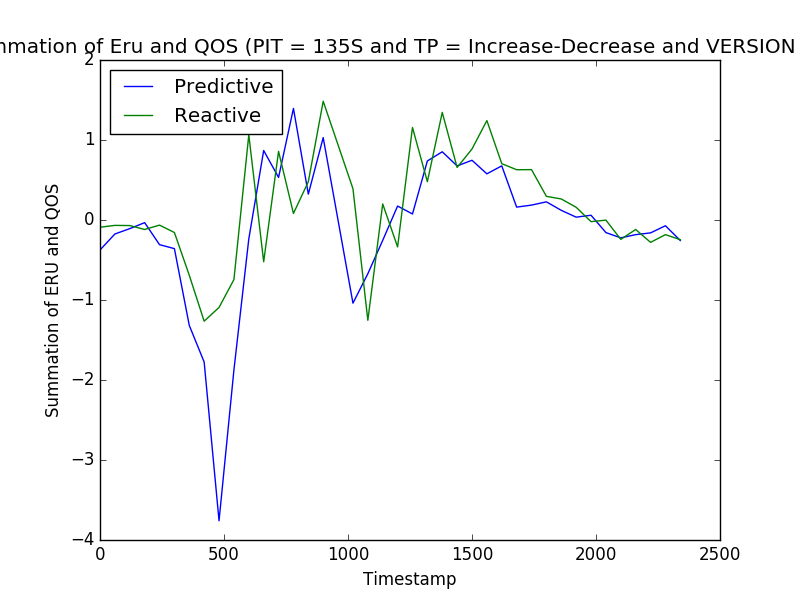
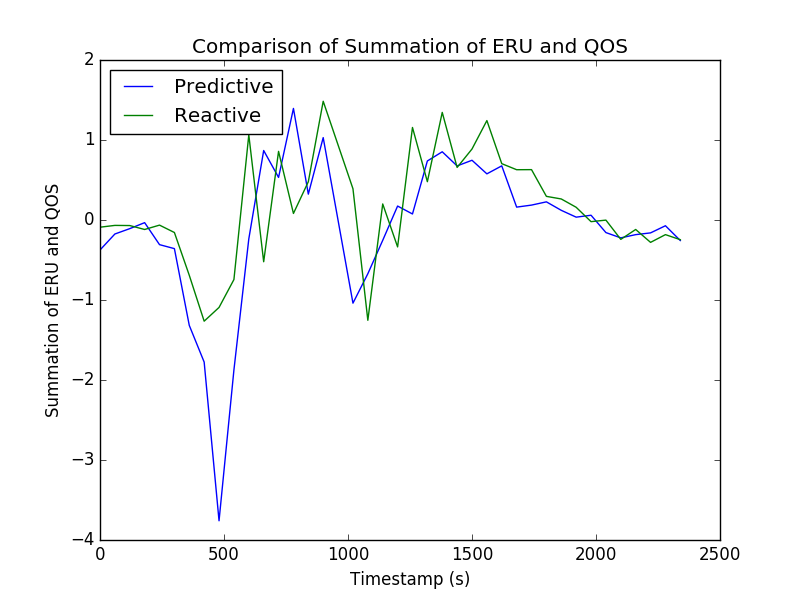
Run more trials and add scripts
Since I'm making a lot of mods at once, this is a kind of disorganized
commit to be honest. It contains the following components.

* Allow running my `evaluate.py` script to compare just eru or just qos
  in addition to their summation.
* Update the way I'm querying influxdb to reflect the addition of
  versioning.
* Write a python script to generate all of my graphs and jsons of stats.
* Add two new traffic-patterns and their results: jagged-edge and
  flash-crowd.

Changed region(s): [[0.0, 0.06, 1.0, 0.09], [0.4375, 0.93, 0.5938, 0.99]]

diff --git a/evaluation/process/evaluate.py b/evaluation/process/evaluate.py
@@ -49,11 +49,13 @@ class Evaluate(object):
     # If no version is specified, assume that it is v1.
     DEFAULT_VERSION = "v1"
 
-    def __init__(self, pit, tp, version, output):
+    def __init__(self, pit, tp, version, output, only_eru, only_qos):
         self._pit = pit
         self._tp = tp
         self._version = version
         self._output = output
+        self._only_eru = only_eru
+        self._only_qos = only_qos
         self._client = None
 
     def _get_client(self):
@@ -74,10 +76,17 @@ class Evaluate(object):
 
         return self._client
 
-    def _get_base_query(self):
+    def _get_base_query(self, version):
         """
         Return the base influx db query which will be used by any instance of
         this class.
+
+        @TODO Handle versioning of queries better.
+
+        Args:
+            version (str): At this point, different versions of trials require
+            different queries which isn't ideal, but its what's happening for
+            now.
 
         Returns:
             str: The base influxdb query, which still has fields that need to be
@@ -87,9 +96,14 @@ class Evaluate(object):
         # like a fairly safe assumption, but is an assumption all the same.
         # @TODO Abstract the specific variable names like `sm`, `tp` as class
         # variables so they aren't just random strings.
-        query = ("SELECT MEAN({{ value }}) from METRICS where time > now() - 10d and "
-                 "sm = '{{ sm }}' and pit = '{{ pt }}' and tp = '{{ tp }}' "
-                 "and ver = '{{ ver }}' group by time(1m)")
+        if version == self.DEFAULT_VERSION:
+            query = ("SELECT MEAN({{ value }}) from METRICS where time > now() - 40d and "
+                     "sm = '{{ sm }}' and pit = '{{ pt }}' and tp = '{{ tp }}' "
+                     "and ver !~ /v*/ group by time(1m)")
+        else:
+            query = ("SELECT MEAN({{ value }}) from METRICS where time > now() - 10d and "
+                     "sm = '{{ sm }}' and pit = '{{ pt }}' and tp = '{{ tp }}' "
+                     "and ver = '{{ ver }}' group by time(1m)")
 
         return query
 
@@ -110,11 +124,11 @@ class Evaluate(object):
         version = "" if self._version == self.DEFAULT_VERSION else self._version
 
         full_query = Template(
-            self._get_base_query()).render(value=value,
-                                           sm=scaling_method,
-                                           pt=self._pit,
-                                           tp=self._tp,
-                                           ver=version)
+            self._get_base_query(self._version)).render(value=value,
+                                                        sm=scaling_method,
+                                                        pt=self._pit,
+                                                        tp=self._tp,
+                                                        ver=version)
 
         res = client.query(full_query)
         return list(res.get_points())
@@ -197,7 +211,15 @@ class Evaluate(object):
                 n_eru = self._normalize(eru, eru_mean, eru_std_dev)
                 n_qos = self._normalize(qos, qos_mean, qos_std_dev)
 
-                sum_eru_qos = -n_eru + -n_qos
+                # A hacky way to allow me to compare to trials just on the basis
+                # of eru or qos as opposed to just their summation.
+                if self._only_eru:
+                    sum_eru_qos = -n_eru
+                elif self._only_qos:
+                    sum_eru_qos = -n_qos
+                else:
+                    sum_eru_qos = -n_eru + -n_qos
+
                 data[timestamp] = sum_eru_qos
 
             results[scaling_method] = data
@@ -218,21 +240,6 @@ class Evaluate(object):
 
         return self._version
 
-    def _get_graph_title(self):
-        """
-        Return the title for the graph.
-
-        Return:
-            str: The title of the graph.
-        """
-        pit = self._pit.title()
-        traffic_plan = self._tp.title()
-
-        title = "Summation of Eru and QOS (PIT = {0} and TP = {1} and VERSION = {2})".format(
-            pit, traffic_plan, self._get_version())
-
-        return title
-
     def _get_file_name(self, file_type):
         """
         Return the file name for the graph.
@@ -246,9 +253,47 @@ class Evaluate(object):
         """
         base_str = self.GRAPH if file_type == self.GRAPH else self.STATS
 
-        file_name = "{0}/{1}_{2}_{3}_{4}".format(self._output, base_str, self._pit,
-                                                 self._tp, self._get_version())
+        qualifier = ""
+        if self._only_eru:
+            qualifier = "_only-eru"
+        elif self._only_qos:
+            qualifier = "_only-qos"
+
+        file_name = "{0}/{1}_{2}_{3}_{4}{5}".format(self._output, base_str, self._pit,
+                                                    self._tp, self._get_version(),
+                                                    qualifier)
         return file_name
+
+    def _get_y_axis(self):
+        """
+        Return the y axis title for the graphs.
+
+        Return:
+            str: The y-axis title for the graph, which changes depending on if
+            its comparing ERU, QOS, or the sum.
+        """
+        if self._only_eru:
+            return "ERU"
+        elif self._only_qos:
+            return "QOS"
+        else:
+            return "Summation of ERU and QOS"
+
+    def _get_graph_title(self):
+        """
+        Return the title for the graph.
+
+        Return:
+            str: The title of the graph.
+        """
+        base_str = "Comparison of {0}"
+
+        if self._only_eru:
+            return base_str.format("ERU")
+        elif self._only_qos:
+            return base_str.format("QOS")
+        else:
+            return base_str.format("Summation of ERU and QOS")
 
     def _convert_time(self, date_str):
         """
@@ -325,8 +370,8 @@ class Evaluate(object):
         plot.plot(x_vals, react_y_vals)
         plot.legend(["Predictive", "Reactive"], loc="upper left")
 
-        plot.xlabel("Timestamp")
-        plot.ylabel("Summation of ERU and QOS")
+        plot.xlabel("Timestamp (s)")
+        plot.ylabel(self._get_y_axis())
         plot.title(self._get_graph_title())
 
         plot.savefig(self._get_file_name(self.GRAPH))
@@ -423,8 +468,9 @@ def parse_args():
     Parse the arguments from the command line argument.
 
     @example
-    - python evaluate.py PIT TP VERSION OUT
+    - python evaluate.py PIT TP VERSION OUT [--only-eru] [--only-qos]
     - python evaluate.py 5s increase-decrease v2 output
+    - python evaluate.py 135s increase-decrease v2 output --only-eru
     """
     parser = argparse.ArgumentParser(description="Process the evaluation test output.")
 
@@ -433,9 +479,15 @@ def parse_args():
     parser.add_argument("version", type=str, help="the version of trials")
     parser.add_argument("out", type=str, help="the directory to write to (i.e. output)")
 
+    # @TODO Make this less hacky. But basically it allows us to specify if we
+    # only want to compare eru or qos as opposed to their summation.
+    parser.add_argument("--only-eru", action="store_true")
+    parser.add_argument("--only-qos", action="store_true")
+
     return parser.parse_args()
 
 if __name__ == "__main__":
     args = parse_args()
 
-    Evaluate(args.pit, args.tp, args.version, args.out).run()
+    Evaluate(args.pit, args.tp, args.version, args.out, args.only_eru,
+             args.only_qos).run()

diff --git a/evaluation/process/generate-all-output.py b/evaluation/process/generate-all-output.py
@@ -1,0 +1,24 @@
+#!/usr/bin/env python
+#
+# A hacky python script to generate all of the relevant graphs and statistics.
+
+import subprocess
+
+if __name__ == "__main__":
+    pits = ["135s"]
+    flags = ["--only-eru", "--only-qos", ""]
+
+    version_lists = {
+        "v1": ["increase-decrease", "flash-crowd"],
+        "v2": ["increase-decrease", "step-ladder", "flash-crowd-short", "jagged-edge"]
+    }
+
+    for version, version_list in version_lists.iteritems():
+        for pit in pits:
+            for tp in version_list:
+                for flag in flags:
+                    command = ("export PIT={0}; export TP={1}; export VERSION={2}; "
+                               "export OUT=/code/output; export FLAG={3}; "
+                               "make process").format(pit, tp, version, flag)
+
+                    subprocess.call(["bash", "-c", command])

diff --git a/evaluation/process/test_evaluate.py b/evaluation/process/test_evaluate.py
@@ -252,7 +252,8 @@ class EvaluateTestCase(unittest.TestCase):
         Returns:
             Evaluate: An instance of the Evaluate class.
         """
-        evaluate = Evaluate(self.PIT, self.TP, self.VERSION, self._get_tmp_dir())
+        evaluate = Evaluate(self.PIT, self.TP, self.VERSION,
+                            self._get_tmp_dir(), False, False)
 
         evaluate.query_influx = MagicMock()
         evaluate.query_influx = InfluxDBMock.query_influx
